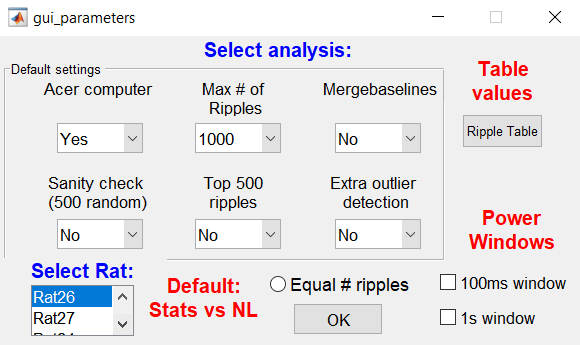
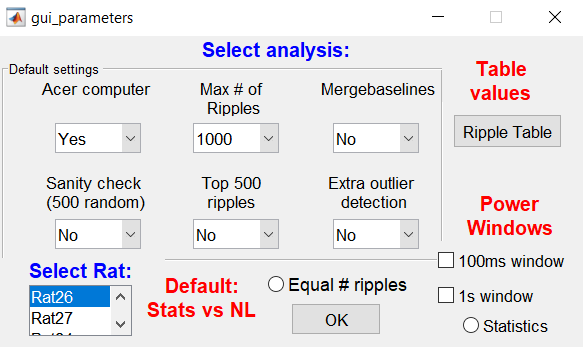
gui_statistics

diff --git a/Figures/Figure3/gui_parameters.m b/Figures/Figure3/gui_parameters.m
@@ -22,7 +22,7 @@ function varargout = gui_parameters(varargin)
 
 % Edit the above text to modify the response to help gui_parameters
 
-% Last Modified by GUIDE v2.5 26-Mar-2019 03:21:23
+% Last Modified by GUIDE v2.5 27-Mar-2019 21:32:28
 
 % Begin initialization code - DO NOT EDIT
 gui_Singleton = 1;
@@ -422,9 +422,9 @@ rippletable=hObject.Value;
 assignin('base', 'rippletable', rippletable)
 
 
-% --- Executes on button press in pushbutton4.
-function pushbutton4_Callback(hObject, eventdata, handles)
-% hObject    handle to pushbutton4 (see GCBO)
+% --- Executes on button press in radiobutton5.
+function radiobutton5_Callback(hObject, eventdata, handles)
+% hObject    handle to radiobutton5 (see GCBO)
 % eventdata  reserved - to be defined in a future version of MATLAB
 % handles    structure with handles and user data (see GUIDATA)
 win_stats=hObject.Value;

diff --git a/Ideas_testing/gui_update_idea.m b/Ideas_testing/gui_update_idea.m
@@ -1,0 +1,15 @@
+%function listbox3_Callback(hObject, eventdata, handles)
+% hObject    handle to listbox3 (see GCBO)
+% eventdata  reserved - to be defined in a future version of MATLAB
+% handles    structure with handles and user data (see GUIDATA)
+% contents = cellstr(get(hObject,'String')) % returns listbox3 contents as cell array
+% contents{get(hObject,'Value')} %returns selected item from listbox3
+win_ten=1;
+contents=get(hObject,'Value')
+if contents==2
+    win_comp=1; %Prefer using strings.
+else
+    win_comp=0;
+end
+assignin('base', 'win_comp', win_comp)
+assignin('base', 'win_ten', win_ten)
